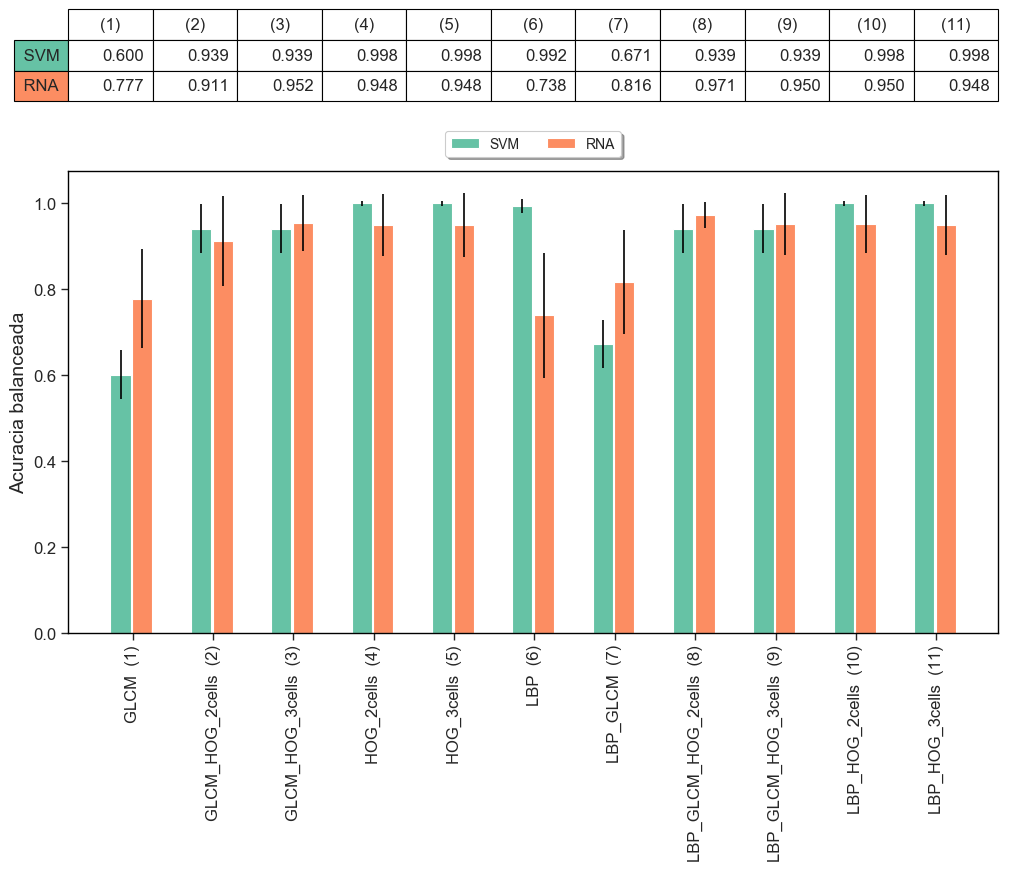
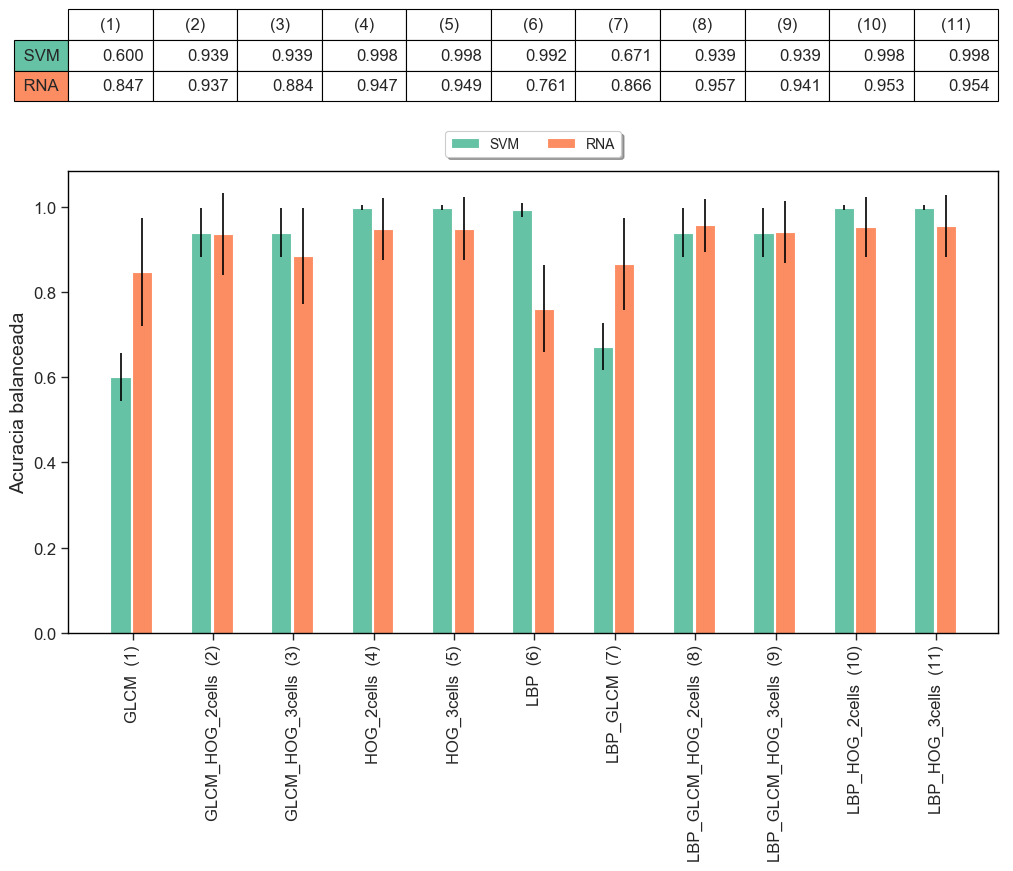
bug fixes by Natalia

diff --git a/main_KF.py b/main_KF.py
@@ -56,6 +56,9 @@ extractor_name= []
 KF= KFold(n_splits=10, random_state=13, shuffle=True) #(n_folds, semente, ordenacao)
 
 for nome in listdir(diretorio):
+
+    cont = 0
+
     acur_RNA= []
     acur_SVM= []
 
@@ -75,18 +78,21 @@ for nome in listdir(diretorio):
     KF_data.to_csv('kfolds_data.csv') #Salvando em .csv
 
     for train_index, test_index in KF.split(x):
+
+        cont = cont + 1;
+
         x_train, x_test = x[train_index], x[test_index]
         y_train, y_test = y[train_index], y[test_index]
 
         #Treinando e avaliando o desempenho da SVM
-        S= svm_andre.SVM(x_train, y_train, x_test, y_test, C, gamma, kernel)
+        S= svm_andre.SVM(x_train, y_train, x_test, y_test, C, gamma, kernel, cont)
         acur_SVM.append(S[0]) #Lista de acuracias de todos os folds
         acurB_SVM.append(S[1]) #Lista de acuracias balanceadas de todos os folds
         matrizC_SVM.append(S[2]) #Lista de matrizes de confusao de todos os folds
 
         #Treinando e avaliando o desempenho da RNA
         R= rna_mlp.RNAs(x_train, y_train, x_test, y_test, learning_rate_init,
-                        learning_rate, hidden_layer_sizes, max_iter)
+                        learning_rate, hidden_layer_sizes, max_iter, cont)
         acur_RNA.append(R[0]) #Lista de acuracias de todos os folds
         acurB_RNA.append(R[1]) #Lista de acuracias balanceadas de todos os folds
         matrizC_RNA.append(R[2]) #Lista de matrizes de confusao de todos os folds
@@ -114,10 +120,10 @@ for nome in listdir(diretorio):
 
 acc_std_models = {'extractorName' : extractor_name,
     'acc_SVM': media_SVM, 'stdev_acc_SVM': des_SVM, 'acc_RNA': media_RNA, 'stdev_acc_RNA': des_RNA,
-    'acc_balanced_SVM' : mediaB_SVM, 'stdev_acc_balanced_SVM': desB_SVM, 'acc_balanced_RNA' : mediaB_RNA, 'stdev_acc_balanced_SVM': desB_RNA
+    'acc_balanced_SVM' : mediaB_SVM, 'stdev_acc_balanced_SVM': desB_SVM, 'acc_balanced_RNA' : mediaB_RNA, 'stdev_acc_balanced_RNA': desB_RNA
 }
 df = pd.DataFrame(acc_std_models, columns= ['extractorName', 'acc_SVM', 'stdev_acc_SVM', 'acc_RNA', 'stdev_acc_RNA',
-    'acc_balanced_SVM', 'stdev_acc_balanced_SVM', 'acc_balanced_RNA', 'stdev_acc_balanced_SVM'])
+    'acc_balanced_SVM', 'stdev_acc_balanced_SVM', 'acc_balanced_RNA', 'stdev_acc_balanced_RNA'])
 
 df.to_csv(os.getcwd()+'/results/summary_results.csv')
 

diff --git a/machine_learn/rna_mlp.py b/machine_learn/rna_mlp.py
@@ -11,10 +11,10 @@ from sklearn import metrics #Importando bibliotecas para avalicao da acuracia da
 # In[2]:
 
 
-def RNAs(x_train, y_train, x_test, y_test, lri, lr, hls, mi):
+def RNAs(x_train, y_train, x_test, y_test, lri, lr, hls, mi, seed):
 
     RNA= MLPClassifier(hidden_layer_sizes=hls, max_iter=mi,
-                       learning_rate=lr,learning_rate_init=lri, random_state=13) #Parametros basicos para RNA
+                       learning_rate=lr,learning_rate_init=lri, random_state=seed) #Parametros basicos para RNA
     RNA.fit(x_train, y_train) #Treinado a RNA
     previsao= RNA.predict(x_test) #Testando a RNA
 

diff --git a/machine_learn/svm_andre.py b/machine_learn/svm_andre.py
@@ -11,9 +11,9 @@ from sklearn import metrics #Importando bibliotecas para avalicao da acuracia da
 # In[2]:
 
 
-def SVM(x_train, y_train, x_test, y_test, c, g, k):
+def SVM(x_train, y_train, x_test, y_test, c, g, k, seed):
 
-    SVM= svm.SVC(C=c, gamma=g, kernel=k, random_state=13) #Parametros basicos para SVM
+    SVM= svm.SVC(C=c, gamma=g, kernel=k, random_state=seed) #Parametros basicos para SVM
     SVM.fit(x_train, y_train) #Treinado a SVM
     previsao= SVM.predict(x_test) #Testando a SVM
 
